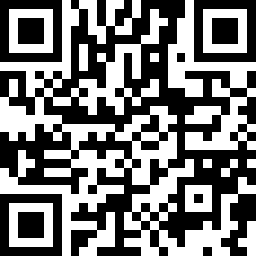
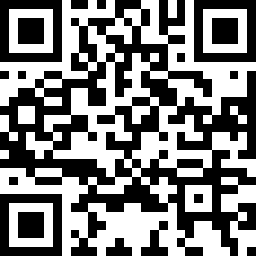
GitBook: [master] one page and 2 assets modified

diff --git a/ping-guo-shou-ji/shadowrocket-lu-you-gui-ze.md b/ping-guo-shou-ji/shadowrocket-lu-you-gui-ze.md
@@ -12,9 +12,9 @@
 * 代理：默认代理其余的所有境外网站
 * 包含广告过滤
 
-规则地址：[https://abcabc.cyou/s/cbwfn9](https://abcabc.cyou/s/cbwfn9)
+规则地址：[https://abcabc.cyou/s/no2ut2](https://abcabc.cyou/s/no2ut2)
 
-![&#x626B;&#x7801;&#x6DFB;&#x52A0;&#x89C4;&#x5219;](../.gitbook/assets/image%20%2819%29.png)
+![](../.gitbook/assets/image%20%2819%29.png)
 
 ### 使用方法
 
